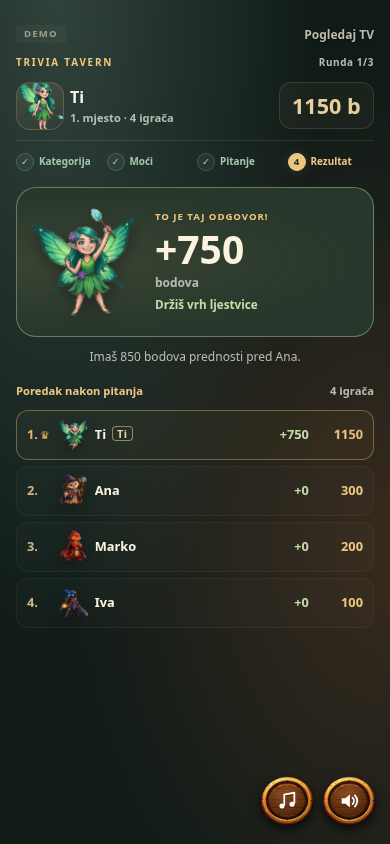
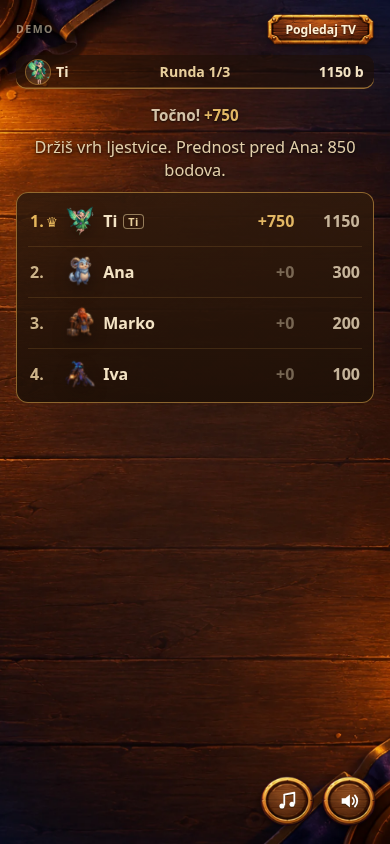
Restore original visual identity and retain interaction improvements

diff --git a/index.html b/index.html
@@ -1990,7 +1990,6 @@
   .step-meter i.crown.on { opacity: 1; }
   .finale-q.crownq .opts { width: min(100%, 1100px); }
 </style>
-<link rel="stylesheet" href="mobile-round.css">
 </head>
 <body>
 <div id="app" class="screen center"></div>
@@ -5550,13 +5549,12 @@ function createGame(o) {
     const d = S;
     const freshP = !!d && L.s !== phoneStep;
     if (d && d.ph === 'cast' && d.ntv && !freshP && document.getElementById('castStage')) return;
-    $app.className = 'screen phone' + (['vote', 'voteResult', 'power', 'cast', 'question', 'reveal'].includes(d && d.ph) ? ' phone-round' : '') + (freshP ? ' fresh' : '');
+    $app.className = 'screen phone' + (freshP ? ' fresh' : '');
     if (!d) { $app.className = 'screen phone center'; $app.innerHTML = '<div class="logo" style="font-size:2.4rem"><span class="lt">Trivia</span><span class="lt">Tavern</span></div><div class="p-title">Spajam se…</div><div class="p-sub">Soba ' + esc(pcode) + '</div>'; return; }
     const me = meOf(d);
     const demoBar = (mode === 'demo' ? '<div class="demo-bar"><span class="pill">DEMO</span><button class="btn ghost" id="toTv">Pogledaj TV</button></div>' : '') +
       (netNote ? '<div class="err" style="display:flex;justify-content:space-between;align-items:center;gap:8px">' + esc(netNote) + '<button class="btn ghost" id="leave2">Izađi</button></div>' : '');
-    const roundPhone = ['vote', 'voteResult', 'power', 'cast', 'question', 'reveal'].includes(d.ph);
-    const head = pactHead(d, me, roundPhone && me ? mobileRoundHead(d, me) : me ? '<div class="p-top"><span class="p-me"><span class="mini">' + avSvg(me.a, d.ph === 'question' && me.fx ? 'shocked' : '') + '</span><span>Ti</span></span><span>' + esc(hudRound(d.rl)) + '</span><span data-bk="hud"' + (d.ph === 'reveal' && me.g > 0 ? ' data-ck="hud" data-cu="' + (me.sc - me.g - (me.br || 0)) + '" data-to="' + me.sc + '" data-suf=" b" data-cud="' + (2150 + WH.end) + '" data-cdur="500"' : '') + '>' + (d.fin ? (me.top ? '👑 Vrh' : 'Stepenica ' + (me.st || 0) + '/' + (d.steps - 1)) : me.sc + ' b') + '</span></div>' : '');
+    const head = pactHead(d, me, me ? '<div class="p-top"><span class="p-me"><span class="mini">' + avSvg(me.a, d.ph === 'question' ? (L.sent || me.ok ? 'happy' : L.fx ? 'shocked' : '') : '') + '</span><span>Ti</span></span><span>' + esc(hudRound(d.rl)) + '</span><span data-bk="hud"' + (d.ph === 'reveal' && me.g > 0 ? ' data-ck="hud" data-cu="' + (me.sc - me.g - (me.br || 0)) + '" data-to="' + me.sc + '" data-suf=" b" data-cud="' + (2150 + WH.end) + '" data-cdur="500"' : '') + '>' + (d.fin ? (me.top ? '👑 Vrh' : 'Stepenica ' + (me.st || 0) + '/' + (d.steps - 1)) : me.sc + ' b') + '</span></div>' : '');
     const center = (inner) => { $app.className = 'screen phone center' + (freshP ? ' fresh' : ''); return inner; };
     let h = '';
     if (!me) {
@@ -5692,21 +5690,10 @@ function createGame(o) {
     tick();
   }
 
-  // The phone carries the whole round, including progress and other players' reactions.
-  function mobileRoundHead(d, me) {
-    const place = byScore(d.P).findIndex((p) => p.id === me.id) + 1;
-    const mood = d.ph === 'question' ? (L.sent || me.ok ? 'happy' : L.fx ? 'shocked' : 'idle') : d.ph === 'reveal' ? 'idle' : 'happy';
-    const step = ['vote', 'voteResult'].includes(d.ph) ? 0 : ['power', 'cast'].includes(d.ph) ? 1 : d.ph === 'question' ? 2 : 3;
-    const scoreAttrs = d.ph === 'reveal' && me.g > 0 ? ' data-ck="hud" data-cu="' + (me.sc - me.g - (me.br || 0)) + '" data-to="' + me.sc + '" data-suf=" b" data-cud="' + (2150 + WH.end) + '" data-cdur="500"' : '';
-    return '<div class="round-brand"><span>TRIVIA TAVERN</span><span>' + esc(hudRound(d.rl)) + '</span></div>' +
-      '<div class="p-top round-hud"><span class="p-me"><span class="mini">' + avSvg(me.a, mood) + '</span><span class="round-identity"><b>' + esc(me.n) + '</b><small>' + place + '. mjesto · ' + d.P.length + ' igrača</small></span></span><span class="round-score" data-bk="hud"' + scoreAttrs + '>' + me.sc + ' b</span></div>' +
-      '<nav class="round-steps" aria-label="Tijek pitanja">' + ['Kategorija', 'Moći', 'Pitanje', 'Rezultat'].map((label, i) => '<span class="' + (i === step ? 'current' : i < step ? 'done' : '') + '"' + (i === step ? ' aria-current="step"' : '') + '><i>' + (i < step ? '✓' : i + 1) + '</i>' + label + '</span>').join('') + '</nav>';
-  }
   function barRow(d) {
     const mood = (p) => (d.ph === 'question' || d.ph === 'fq') && p.fx && p.fx.length ? 'shocked' : p.ok ? 'happy' : 'idle';
-    return '<div class="bar-row" aria-label="Igrači">' + d.P.map((p) => '<div class="bw' + (p.id === PID ? ' me' : '') + '" title="' + esc(p.n) + (p.ok ? ' · spreman' : '') + '"><span class="glow"></span>' + avSvg(p.a, mood(p)) + '<span class="nm">' + esc(p.id === PID ? 'Ti' : p.n) + '</span>' + (p.ok ? '<span class="ok" data-bk="bw' + esc(p.id) + '" data-bv="1" aria-label="Spreman">✓</span>' : '') + '</div>').join('') + '</div>';
+    return '<div class="bar-row">' + d.P.map((p) => '<div class="bw' + (p.id === PID ? ' me' : '') + '" title="' + esc(p.n) + '" aria-label="' + esc(p.n) + '"><span class="glow"></span>' + avSvg(p.a, mood(p)) + '<span class="nm">' + esc(p.id === PID ? 'Ti' : p.n) + '</span>' + (p.ok ? '<span class="ok" data-bk="bw' + esc(p.id) + '" data-bv="1">✓</span>' : '') + '</div>').join('') + '</div>';
   }
-
   function hudRound(rl) { const m = /^Runda (\d+)$/.exec(rl || ''); return m ? 'Runda ' + m[1] + '/3' : (rl || ''); }
   const ANN_SUB = { 'Runda 1': 'Avantura počinje.', 'Runda 2': 'Vrijeme je za novu rundu.', 'Runda 3': 'Još samo jedna runda.', 'Veliko finale': 'Sve se odlučuje sada.' };
   function annHtml(d) {
@@ -6030,13 +6017,11 @@ function createGame(o) {
       return '<button class="' + cls + '" data-c="' + i + '" data-bk="op' + i + '" data-bv="' + st + '"' + (st ? ' data-ba="' + (st === 'picked' ? 'pickIn' : 'dimIn') + '"' : '') + ' aria-pressed="' + (mine === i) + '"' + (answered || gone ? ' disabled' : '') + '><span class="shape">' + SHAPES[i] + '</span><span class="otxt">' + optText(o, i) + '</span></button>';
     }).join('');
     const attackers = (d.ev || []).filter((e) => e.t === PID);
-    const hit = attackers.length ? '<div class="round-attacks">' + attackers.map((e) => '<span class="round-attack' + (e.b ? ' blocked' : '') + '"><span class="mini">' + avSvg(avOf(d, e.f), 'attack') + '</span><span><b>' + esc(nameOf(d, e.f)) + '</b> ' + (e.b ? '· štit odbija napad' : 'šalje ' + esc(POWERS[e.p].n)) + '</span>' + ICON[e.p] + '</span>').join('') + '</div>' : '';
-    const status = answered ? '<span class="answer-seal">✓</span><span><b>Odgovor zaprimljen</b><small>Prati ostale. Uskoro otkrivamo odgovor.</small></span>' : '<span class="answer-spark">✦</span><span><b>' + (L.fx ? 'Oslobodi svoje odgovore' : locked ? 'Očišćeno! Još trenutak…' : 'Tvoj potez') + '</b><small>' + (L.fx ? FX_LABEL[L.fx.k] : 'Brži točan odgovor donosi više bodova.') + '</small></span>';
-    return '<section class="round-question' + (answered ? ' is-answered' : '') + '" aria-label="Pitanje">' +
-      '<div class="round-question-meta"><span>' + esc(d.q.c) + '</span><span class="round-clock" aria-label="Preostalo vrijeme"><b id="tnum"></b><small>sek</small></span></div>' + timerHtml() +
-      qTextHtml(d, false) + (buffs ? '<div class="buffs">' + buffs + '</div>' : '') + '</section>' + hit +
-      '<div class="q-area round-answers"><div class="p-opts">' + opts + '</div>' + (answered ? '' : fxHtml(L.fx) + bombLayer()) + '</div>' + boomCover() +
-      '<div class="waiting answer-status' + (answered ? ' confirmed' : '') + '" role="status" data-bk="qwait" data-ba="subIn">' + status + '</div>';
+    const hit = attackers.length ? '<div class="p-sub">' + attackers.map((e) => esc(nameOf(d, e.f)) + ' ' + ICON[e.p] + (e.b ? ' (odbijeno)' : '')).join(' · ') + '</div>' : '';
+    return timerHtml() + '<div class="p-top"><span class="pill">' + esc(d.q.c) + '</span><span id="tnum"></span></div>' +
+      qTextHtml(d, false) + (buffs ? '<div class="buffs">' + buffs + '</div>' : '') + hit +
+      '<div class="q-area"><div class="p-opts">' + opts + '</div>' + (answered ? '' : fxHtml(L.fx) + bombLayer()) + '</div>' + boomCover() +
+      '<div class="waiting" role="status" data-bk="qwait" data-ba="subIn">' + (answered ? 'Odgovor zaprimljen ✔' : L.fx ? '' : locked ? 'Očišćeno! Odgovori se otključavaju…' : 'Brže = više bodova!') + '</div>';
   }
 
   function revOpts(d, mine, tv) {
@@ -6076,14 +6061,15 @@ function createGame(o) {
       ], { duration: 700, easing: 'cubic-bezier(0.5, 0, 0.75, 0)' }).onfinish = done;
     }, 1500 + WH.end);
   }
-  function mobileRoundResult(d, me, ok, none) {
+  function roundRecap(d, me) {
     const ranked = byScore(d.P), place = ranked.findIndex((p) => p.id === me.id);
     const before = d.P.slice().sort((a, b) => (b.sc - (b.g || 0) - (b.br || 0) - (b.xb || 0)) - (a.sc - (a.g || 0) - (a.br || 0) - (a.xb || 0)));
     const moved = before.findIndex((p) => p.id === me.id) - place;
+    const movement = moved > 0 ? '↑ Napreduješ za ' + moved + (moved === 1 ? ' mjesto.' : ' mjesta.') : moved < 0 ? '↓ Padaš za ' + Math.abs(moved) + (moved === -1 ? ' mjesto.' : ' mjesta.') : place === 0 ? 'Držiš vrh ljestvice.' : (place + 1) + '. mjesto.';
     const rival = place > 0 ? ranked[place - 1] : ranked[1];
     const gap = rival ? Math.abs(rival.sc - me.sc) : 0;
-    const chase = !rival ? 'Pozornica je tvoja.' : gap === 0 ? 'Dijeliš bodove s ' + rival.n + '.' : place === 0 ? 'Imaš ' + gap + ' bodova prednosti pred ' + rival.n + '.' : 'Još ' + gap + ' bodova do igrača ' + rival.n + '.';
-    return '<section class="round-result' + (ok ? ' success' : '') + '" aria-label="Tvoj rezultat"><span class="round-result-avatar">' + avSvg(me.a, ok ? 'victory' : 'sad') + '</span><div class="round-result-copy"><span class="round-eyebrow">' + (none ? 'VRIJEME JE ISTEKLO' : ok ? 'TO JE TAJ ODGOVOR!' : 'SLJEDEĆE JE TVOJE') + '</span><strong>+' + (me.g || 0) + '<small> bodova</small></strong><span class="round-movement">' + (moved > 0 ? '↑ ' + moved + ' ' + (moved === 1 ? 'mjesto' : 'mjesta') : moved < 0 ? '↓ ' + Math.abs(moved) + ' ' + (moved === -1 ? 'mjesto' : 'mjesta') : place === 0 ? 'Držiš vrh ljestvice' : (place + 1) + '. mjesto') + '</span>' + (me.br ? '<span class="round-movement">Ulog: ' + (me.br > 0 ? '+' : '−') + Math.abs(me.br) + '</span>' : '') + (me.xb ? '<span class="round-movement">Bonus saveza: +' + me.xb + '</span>' : '') + '</div></section><p class="round-rival">' + esc(chase) + '</p>';
+    const chase = !rival ? '' : gap === 0 ? ' Dijeliš bodove s ' + rival.n + '.' : place === 0 ? ' Prednost pred ' + rival.n + ': ' + gap + ' bodova.' : ' Do igrača ' + rival.n + ': ' + gap + ' bodova.';
+    return '<div class="p-sub" data-round-recap="1">' + esc(movement + chase) + '</div>';
   }
   function revealPhone(d, me) {
     const el = Math.max(0, d.dur - d.ms), ok = me.ch === d.cor, none = me.ch < 0;
@@ -6093,7 +6079,7 @@ function createGame(o) {
     const wh = wheel(d);
     return '<style>' + wh.css + '</style><div class="rv wheel" style="--el:' + el + 'ms;--rvo:' + WH.end + 'ms;--rvw:' + WH.walk + 'ms">' +
       '<div class="rv-a">' + qTextHtml(d, false) + (none ? '<div class="rv-sum">Vrijeme je isteklo</div>' : '') + revOpts(d, me.ch, false) + pts + (me.br ? '<div class="rv-bet' + (me.br < 0 ? ' neg' : '') + '">Ulog: ' + (me.br > 0 ? '+' : '−') + Math.abs(me.br) + '</div>' : '') + secretRevealLine(d, me) + '</div>' +
-      '<div class="rv-b">' + mobileRoundResult(d, me, ok, none) + '<div class="rv-sum">' + sum + '</div><div class="round-board-title"><span>Poredak nakon pitanja</span><span>' + d.P.length + ' igrača</span></div>' + b.html + (d.mo ? tdLine(d) : b.lead ? '<div class="rv-lead">Novo vodstvo: ' + esc(b.lead.id === PID ? 'ti' : b.lead.n) + '!</div>' : '') + '</div></div>';
+      '<div class="rv-b"><div class="rv-sum">' + sum + '</div>' + roundRecap(d, me) + b.html + (d.mo ? tdLine(d) : b.lead ? '<div class="rv-lead">Novo vodstvo: ' + esc(b.lead.id === PID ? 'ti' : b.lead.n) + '!</div>' : '') + '</div></div>';
   }
 
   function progress(n, done) { let s = ''; for (let i = 0; i < n; i++) s += '<i class="' + (i < done ? 'done' : '') + '"></i>'; return '<div class="progress">' + s + '</div>'; }

diff --git a/sw.js b/sw.js
@@ -1,6 +1,6 @@
 // Mozgalica: uvijek pokušaj mrežu, a bez interneta posluži zadnju spremljenu verziju.
-const CACHE = 'mozgalica-v20';
-const CORE = ['./', './index.html', './mobile-round.css', './manifest.webmanifest', './icon-192.png', './icon-512.png', './icon.svg'];
+const CACHE = 'mozgalica-v21';
+const CORE = ['./', './index.html', './manifest.webmanifest', './icon-192.png', './icon-512.png', './icon.svg'];
 self.addEventListener('install', (e) => {
   e.waitUntil(caches.open(CACHE).then((c) => c.addAll(CORE)).then(() => self.skipWaiting()));
 });

diff --git a/docs/mobile-round-preview.md b/docs/mobile-round-preview.md
@@ -1,26 +1,27 @@
-# Mobilna runda — probna verzija
+# Mobilna runda — dorade uz izvorni vizualni identitet
 
-Ova grana sadrži prijedlog mobilnog izgleda jedne runde. Nije spojena u `main` niti objavljena na postojećoj adresi igre.
+Ova grana zadržava izvornu paletu, drvene ploče, pergament, tipografiju, likove i raspored igre. Raniji prijedlog redizajna uklonjen je. CSS u `index.html` jednak je onome iz početne verzije `e330708`.
+
+Grana nije spojena u `main` niti objavljena na postojećoj adresi igre.
 
 ## Pitanje
 
-![Mobilni ekran pitanja](previews/mobile-round-question.png)
+![Mobilni ekran pitanja u izvornom stilu](previews/mobile-round-question.png)
 
 ## Rezultat
 
-![Mobilni ekran rezultata](previews/mobile-round-result.png)
+![Mobilni ekran rezultata u izvornom stilu](previews/mobile-round-result.png)
 
 Snimke su izrađene u Chromiumu na prikazu širine 390 px, s kontroliranim testnim stanjem igre.
 
-## Što se promijenilo
+## Zadržane dorade
 
-- Mobilno zaglavlje s likom, bodovima, poretkom i koracima pitanja.
-- Čitljivije kartice pitanja i odgovora, potvrda izbora i zvuk dodira.
-- Prikaz napadača i spremnosti ostalih igrača.
-- Osobni rezultat s reakcijom lika, osvojenim bodovima, promjenom mjesta i razlikom do suparnika.
-- Predmemoriranje novog CSS-a za offline korištenje.
+- Zvuk potvrde odgovora i pristupačna oznaka odabranog odgovora.
+- Reakcija vlastitog lika nakon odgovora i ispravan prikaz likova koji nisu pod napadom.
+- Imena uz likove i pravovremeno osvježavanje oznaka spremnosti ostalih igrača.
+- Kratak tekst ispod rezultata: pomak na ljestvici i bodovna razlika do suparnika.
 
-Pravila bodovanja i mrežni protokol ostali su nepromijenjeni.
+Izvorni prikaz pitanja, odgovora, moći i rezultata ostao je sačuvan. Pravila bodovanja i mrežni protokol ostali su nepromijenjeni.
 
 ## Isprobaj lokalno
 
@@ -32,13 +33,12 @@ python3 -m http.server 8000
 
 Otvori lokalni poslužitelj u pregledniku i odaberi **Igraj protiv botova**. Grana sama po sebi ne stvara javnu adresu za igranje.
 
-## Provjere
+## Provjere ispravka
 
-- Demo: glasanje, izbor moći, pitanje, slanje odgovora i rezultat; bez JavaScript pogrešaka.
-- Led, sluz i zaštita od slučajnog slanja odgovora nakon uklanjanja efekta.
-- Točan/pogrešan odgovor, istek vremena, ulog i bonus saveza.
-- Pravovremeno otkrivanje rezultata, uključujući reduced-motion postavku.
-- Širine 320–430 px, vodoravni prikaz i dugački tekstovi.
-- Spremanje novog CSS-a u service worker predmemoriju i otvaranje demo predvorja offline.
+- Potvrđeno da je izvorni CSS sačuvan bez promjena.
+- Prikaz širine 320–430 px i osvježavanje statusa ostalih igrača.
+- Razbijanje leda, zaštita od slučajnog odgovora nakon čišćenja i potvrda izbora.
+- Rezultat ostaje skriven do završetka otkrivanja; točan/pogrešan odgovor i istek vremena.
+- JavaScript sintaksa i provjera pogrešaka u Chromiumu.
 
 Mrežna igra između uređaja nije potvrđena u ovom okruženju zbog ograničenja pristupa vanjskim servisima.
